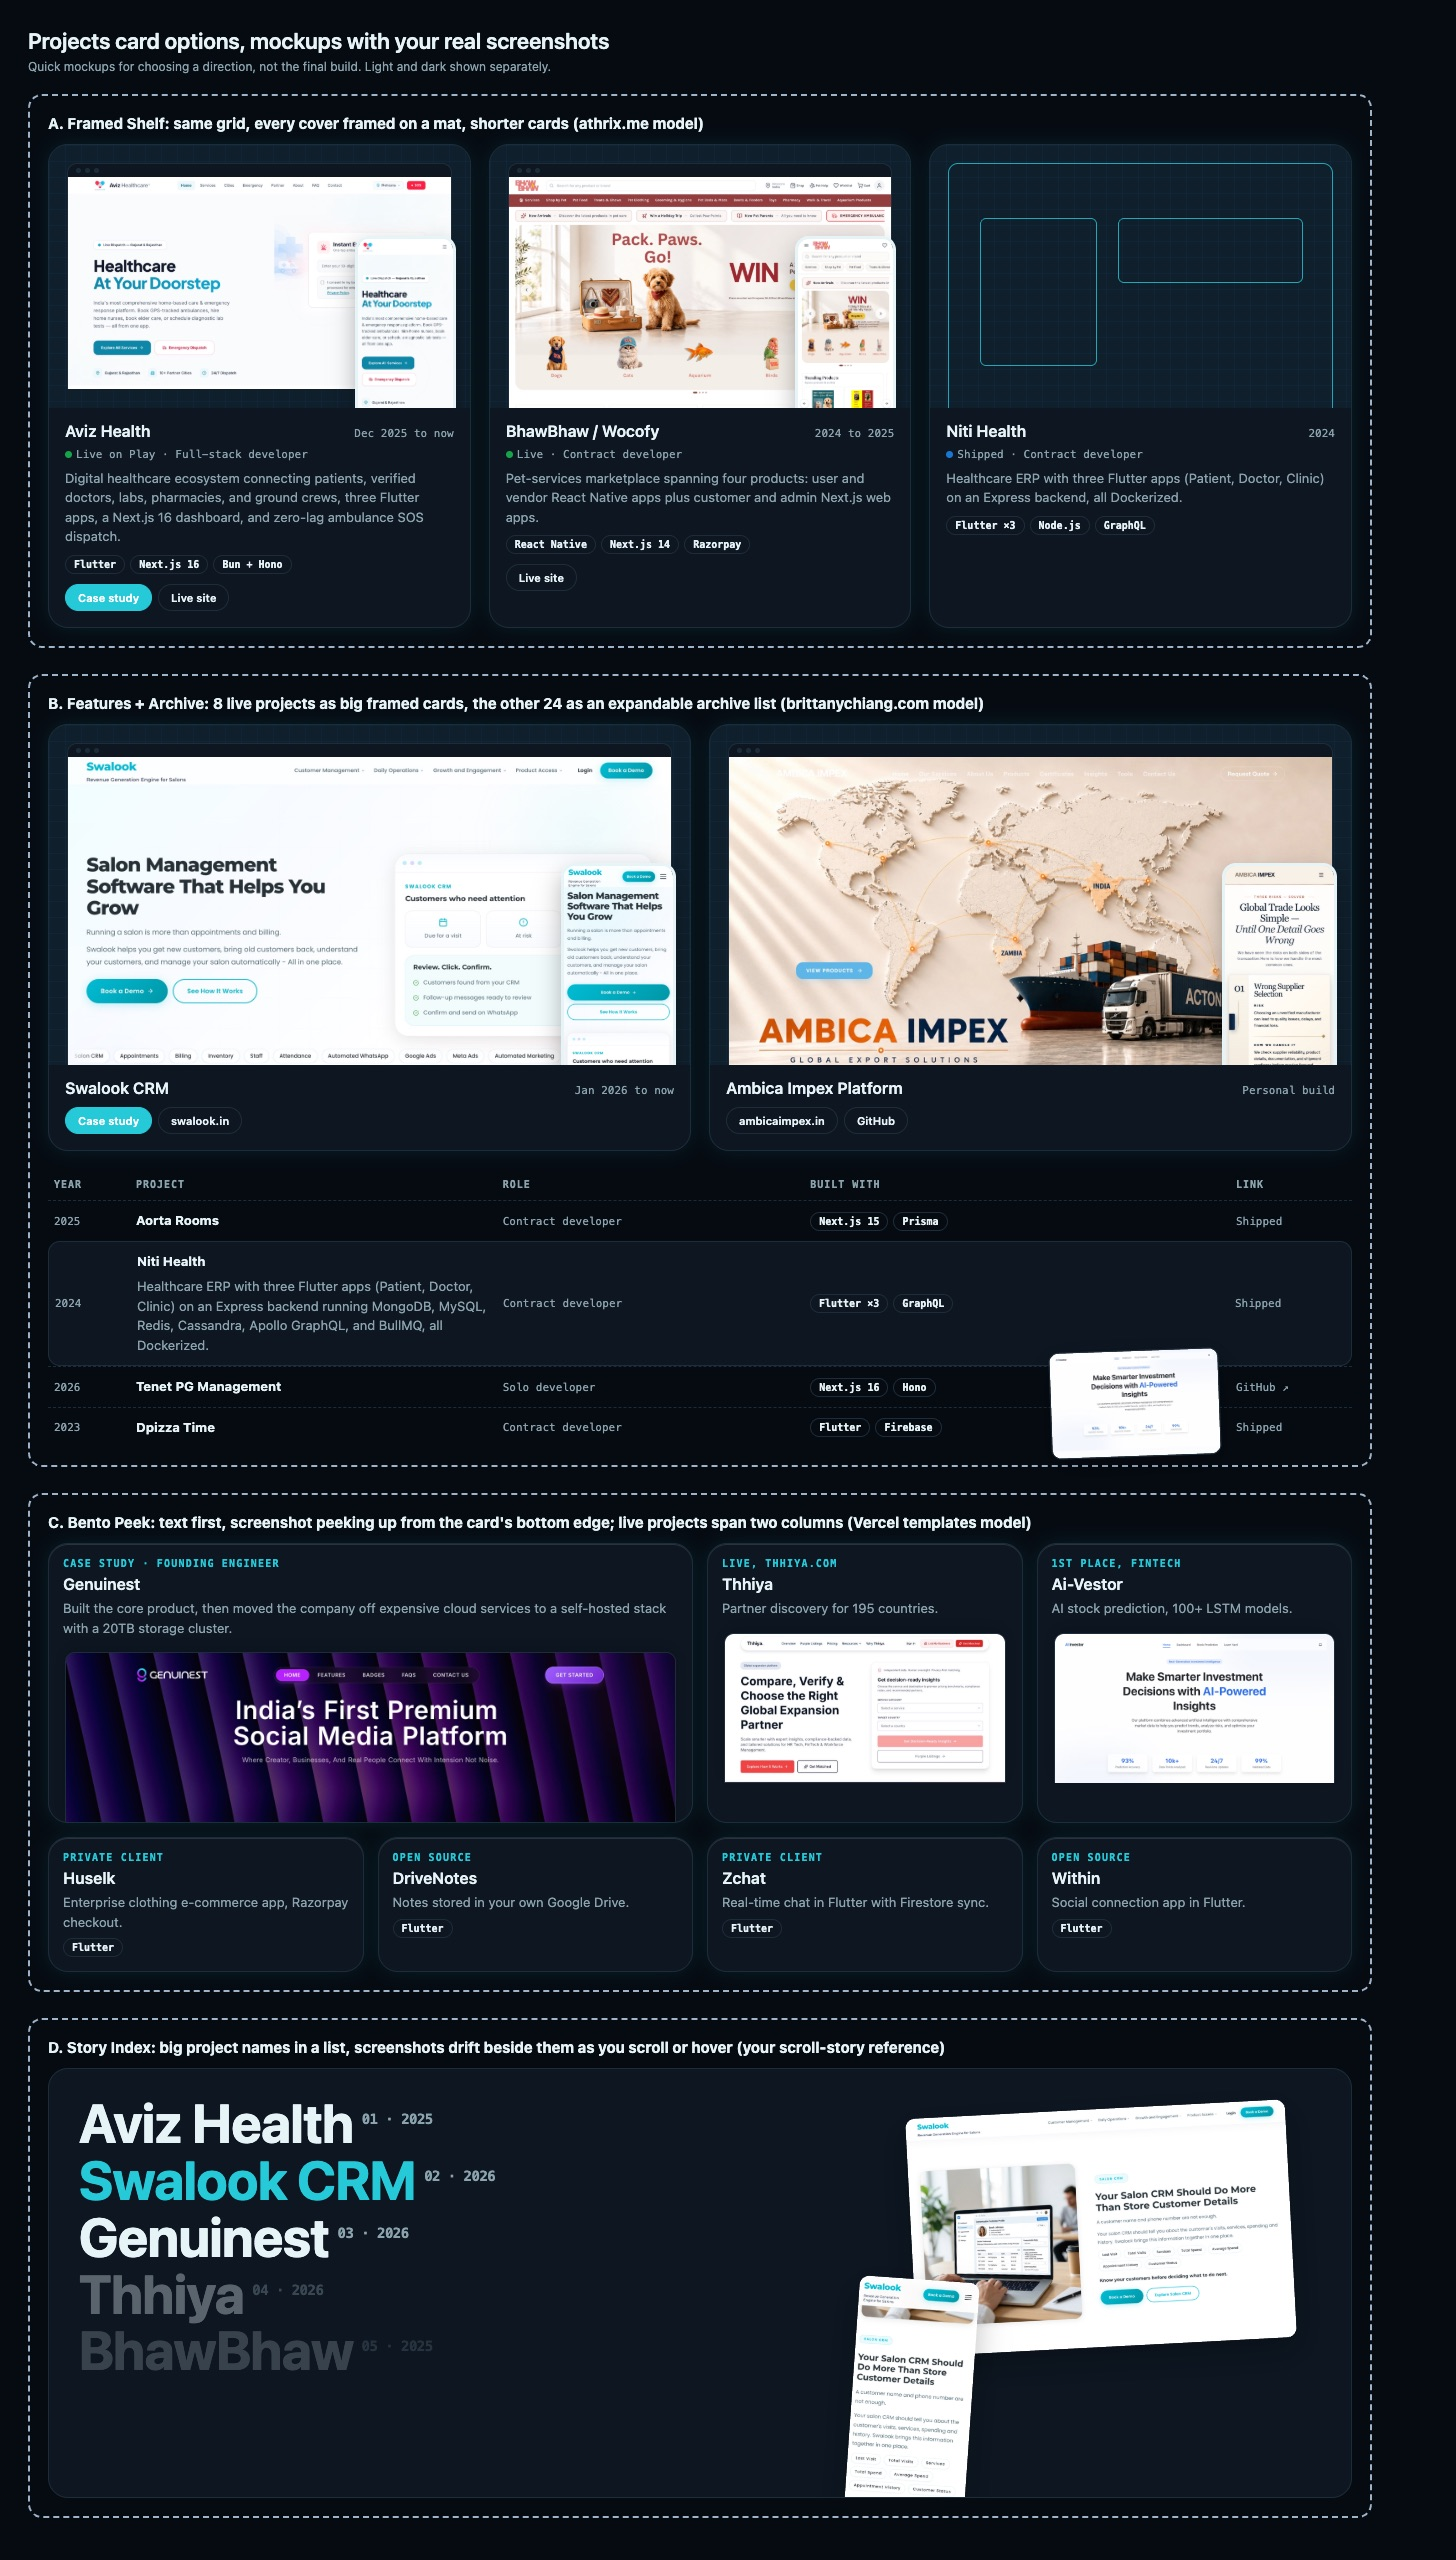
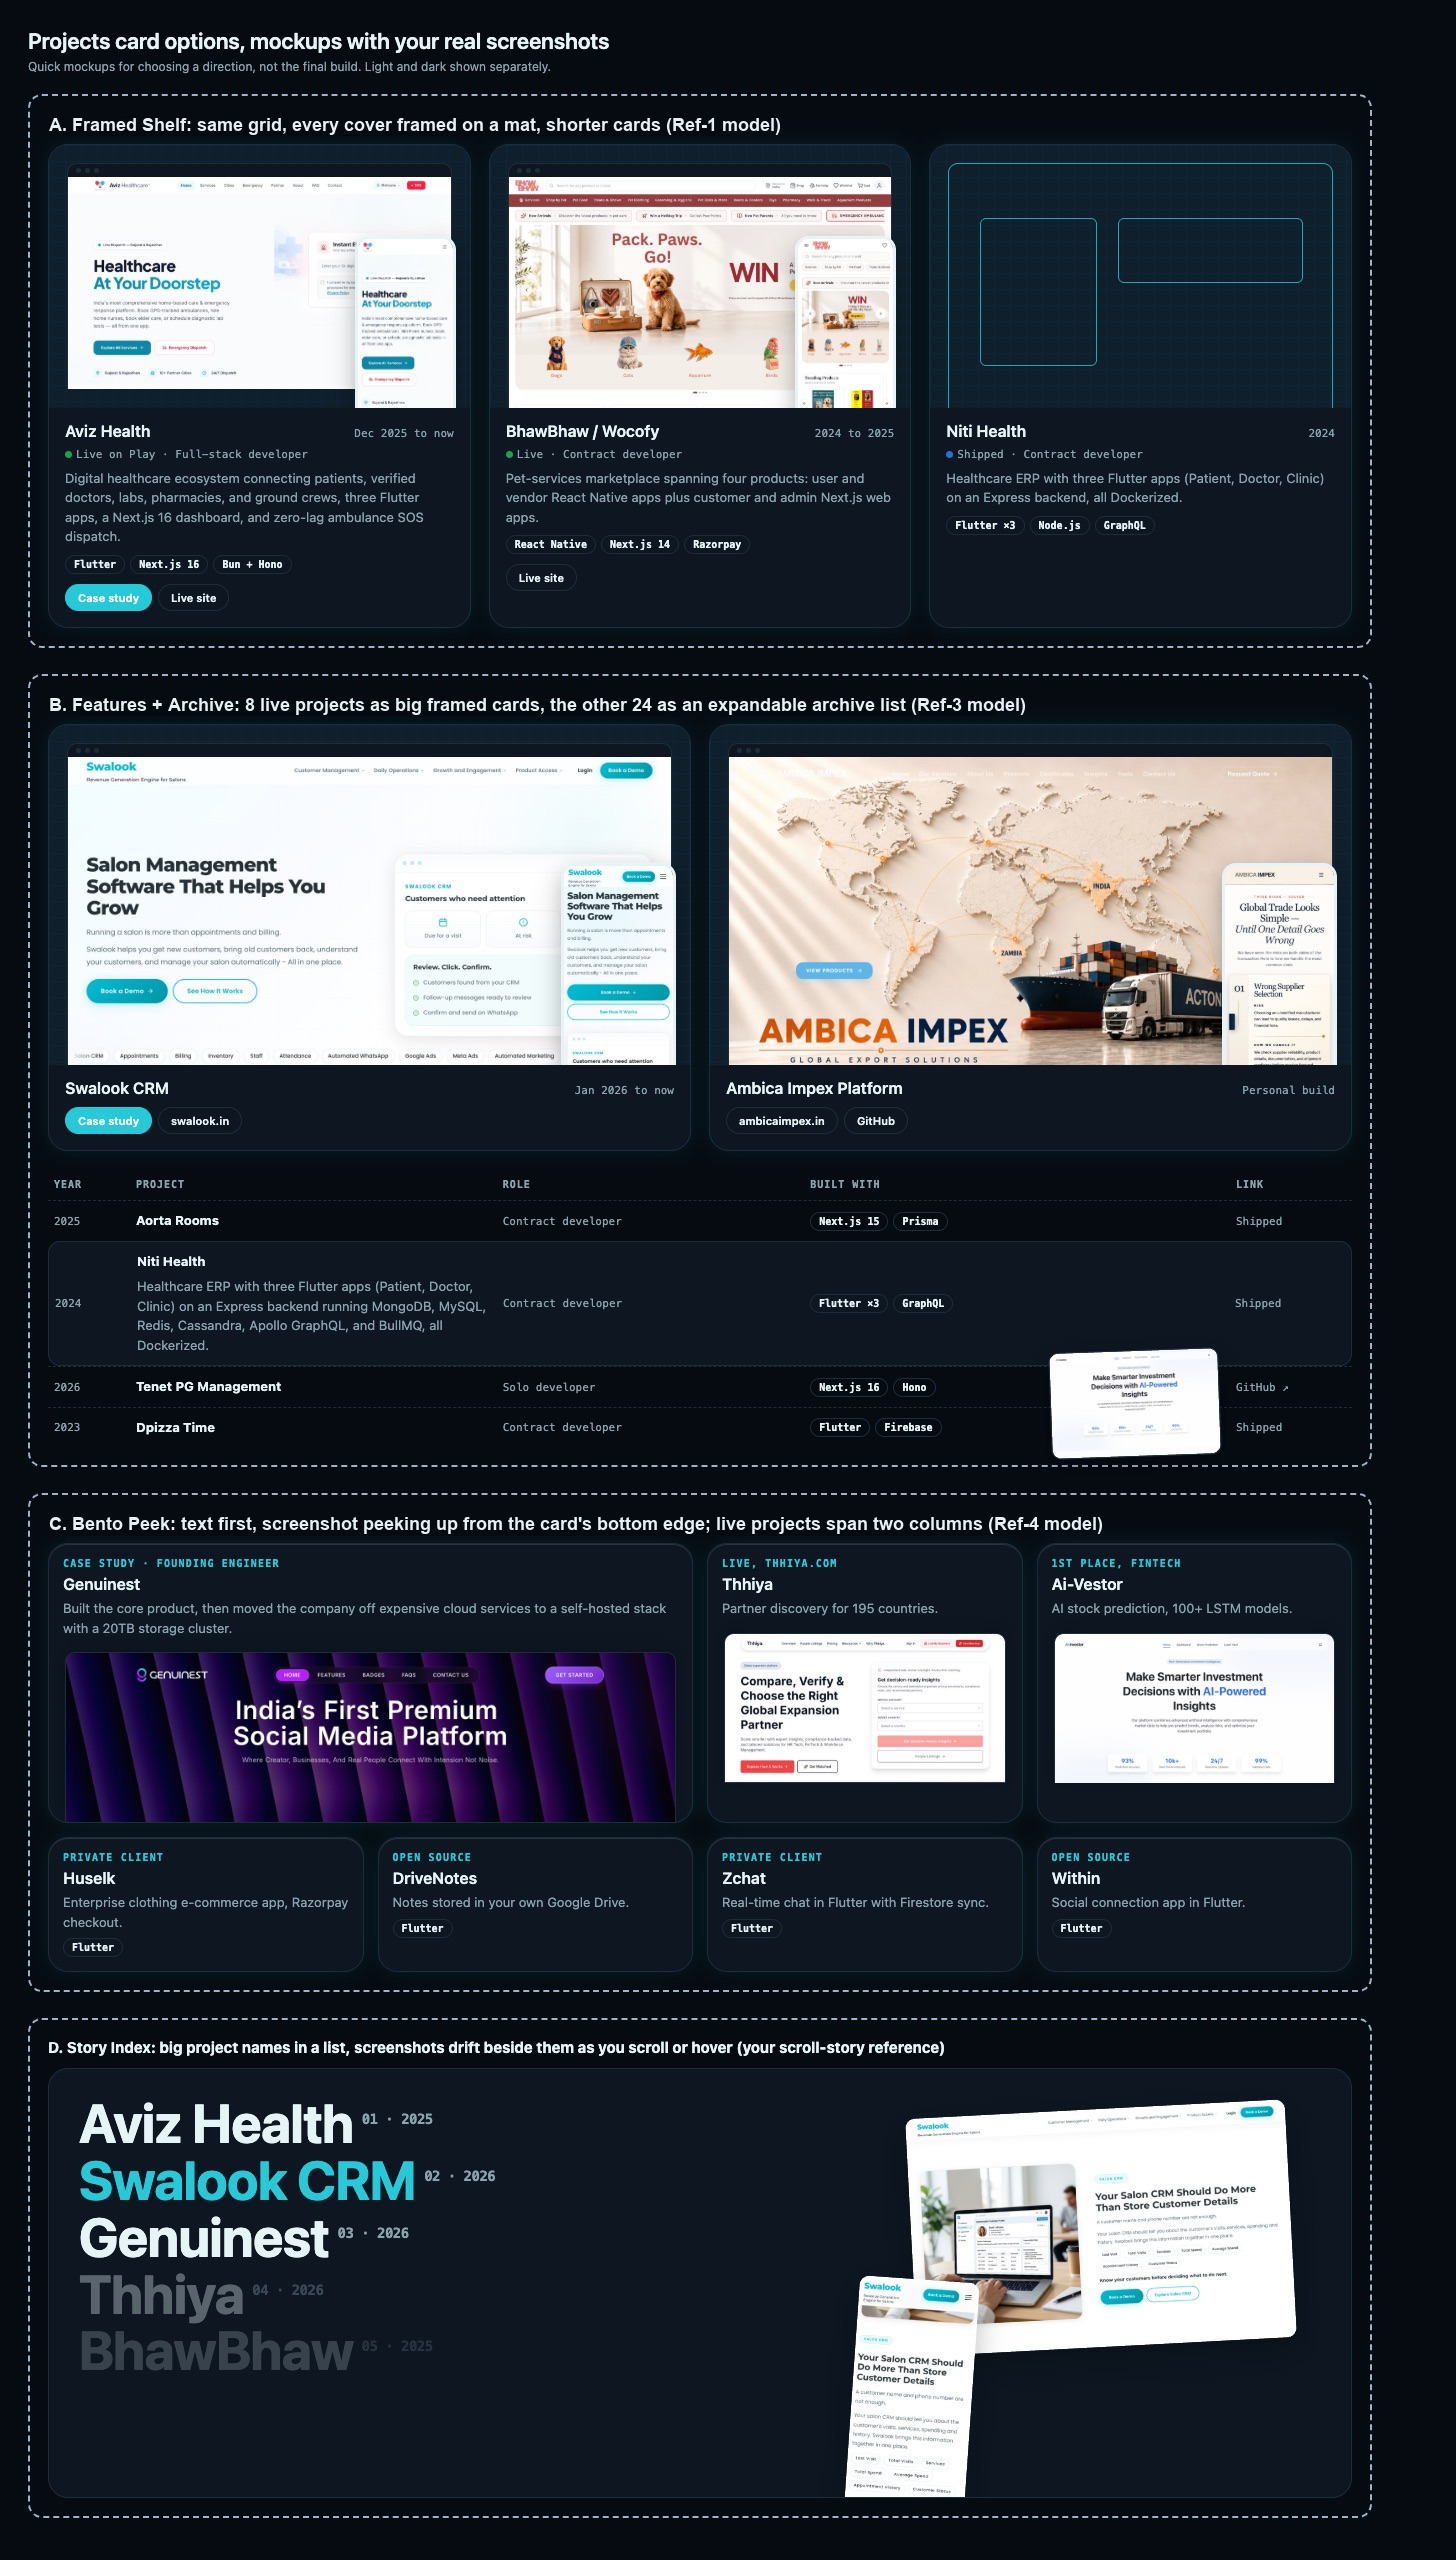
docs: keep design reference sources out of the public repo
This repository is public, and the sites Jay studies are his own working
knowledge, not something to advertise. Names and URLs now live only in the
gitignored register, tracked docs say Ref-N, and the two mockups whose captions
printed a name were redrawn because `git grep` cannot read image text.

Written-by: Qoder agent

diff --git a/docs/redesign/projects-cards-audit-and-options-2026-09-30.md b/docs/redesign/projects-cards-audit-and-options-2026-09-30.md
@@ -4,6 +4,10 @@ Gate R research for the Projects card revamp. Mockups with real screenshots:
 `projects-card-options-light.jpg` and `projects-card-options-dark.jpg` in this
 folder (quick mockups for choosing a direction, not the build).
 
+Reference names are private. They use the neutral labels Ref-1 to Ref-4; the real
+names and URLs are in the gitignored register
+`.agents/memory/facts/motion-reference-sites.md`.
+
 ## Audit (local build, measured at 390, 768, 1280, 1600 wide, light and dark)
 
 1. No hierarchy. All 32 cards are the same size and anatomy; the four case
@@ -28,36 +32,36 @@ folder (quick mockups for choosing a direction, not the build).
 
 ## References studied (live, captured headless)
 
-- athrix.me/projects (Jay's liked dev portfolio): two columns, screenshot
+- Ref-1 (Jay's liked dev portfolio): two columns, screenshot
   inset on a soft backdrop with padding, title and date on one line, status,
   short text, tags, Live and GitHub pills.
-- radhekrishna.athrix.me (Jay's liked scroll story): huge titles, images
+- Ref-2 (Jay's liked scroll story): huge titles, images
   drift and tilt around them as you scroll.
-- brittanychiang.com: a few featured projects as rows with thumbnails, then
+- Ref-3: a few featured projects as rows with thumbnails, then
   a full archive table (Year, Project, Made at, Built with, Link).
-- vercel.com/templates: text first, screenshot peeking up from the card's
+- Ref-4: text first, screenshot peeking up from the card's
   bottom edge, uniform tiles.
 - Hover-preview project lists (common on design portfolios and in UI
   catalogs): list rows reveal a floating preview on hover.
 
 ## Options
 
-- A. Framed Shelf (athrix.me model). Same 1/2/3/3 grid. Every cover becomes a
+- A. Framed Shelf (Ref-1 model). Same 1/2/3/3 grid. Every cover becomes a
   framed desktop screenshot on a tinted mat with a phone frame overlapping,
   so white screenshots never touch dark glass; drawings sit on the same mat.
   Body tightened: title and date on one line, status line, full
   description, tags, pills (Case study, Live site, GitHub). Footer strip
   removed. Cards about 90 to 110px shorter; page still 32 cards long.
-- B. Features + Archive (brittanychiang.com model). The 8 live projects
+- B. Features + Archive (Ref-3 model). The 8 live projects
   become big framed cards (2 across from tablet up); the other 24 become an
   archive list (Year, Project, Role, Built with, Link) whose rows expand in
   place to the full description, with a hover preview on laptop and wide.
   Phone page drops from about 18,200px to roughly 8,000px (estimate).
   Filter rail keeps working across both.
-- C. Bento Peek (vercel.com/templates model). Text first; live projects span
+- C. Bento Peek (Ref-4 model). Text first; live projects span
   two columns with the screenshot peeking up from the bottom edge; projects
   without a site become compact text tiles with no cover.
-- D. Story Index (radhekrishna.athrix.me model). Big project names as a list;
+- D. Story Index (Ref-2 model). Big project names as a list;
   framed screenshots drift beside them on scroll and hover. Most expressive,
   heaviest motion, needs its own motion brief; phones fall back to a list.
 

diff --git a/.agents/rules/custom-code-policy.md b/.agents/rules/custom-code-policy.md
@@ -16,6 +16,15 @@
    - Zero CSS preprocessors or utility frameworks (pure vanilla CSS only).
    - Zero emojis in deliverables.
 
+4. **Reference Privacy**:
+   - External sites studied for inspiration are private. Record their names, URLs, and what
+     was taken only in `.agents/memory/facts/motion-reference-sites.md`, which is gitignored.
+     Tracked docs use neutral labels: Ref-1, Ref-2, and so on.
+   - Never put a reference name, URL, screenshot, "inspired by" credit, or "built from"
+     claim into a tracked file, a commit, site copy, or any built page. This repository is
+     public.
+   - A new reference is added to that register first; the public label is assigned there.
+
 
 ---
 

diff --git a/docs/redesign/decisions/gate-r-answers.md b/docs/redesign/decisions/gate-r-answers.md
@@ -131,7 +131,7 @@ The rack asked four questions; you answered all four. These steer any future Gat
 Research: docs/redesign/projects-cards-audit-and-options-2026-09-30.md
 (mockups projects-card-options-light.jpg and -dark.jpg).
 - Layout: B, FEATURES + ARCHIVE (live projects as big cards, the rest as an
-  expandable archive list; brittanychiang.com model).
+  expandable archive list; Ref-3 model, mapped in the private reference register).
 - Covers: DESKTOP + PHONE ON A MAT (framed, padded, tinted mat).
 - Projects without a live site: KEEP THE DRAWINGS (shown on the mat in the
   open archive row and in the hover preview).
